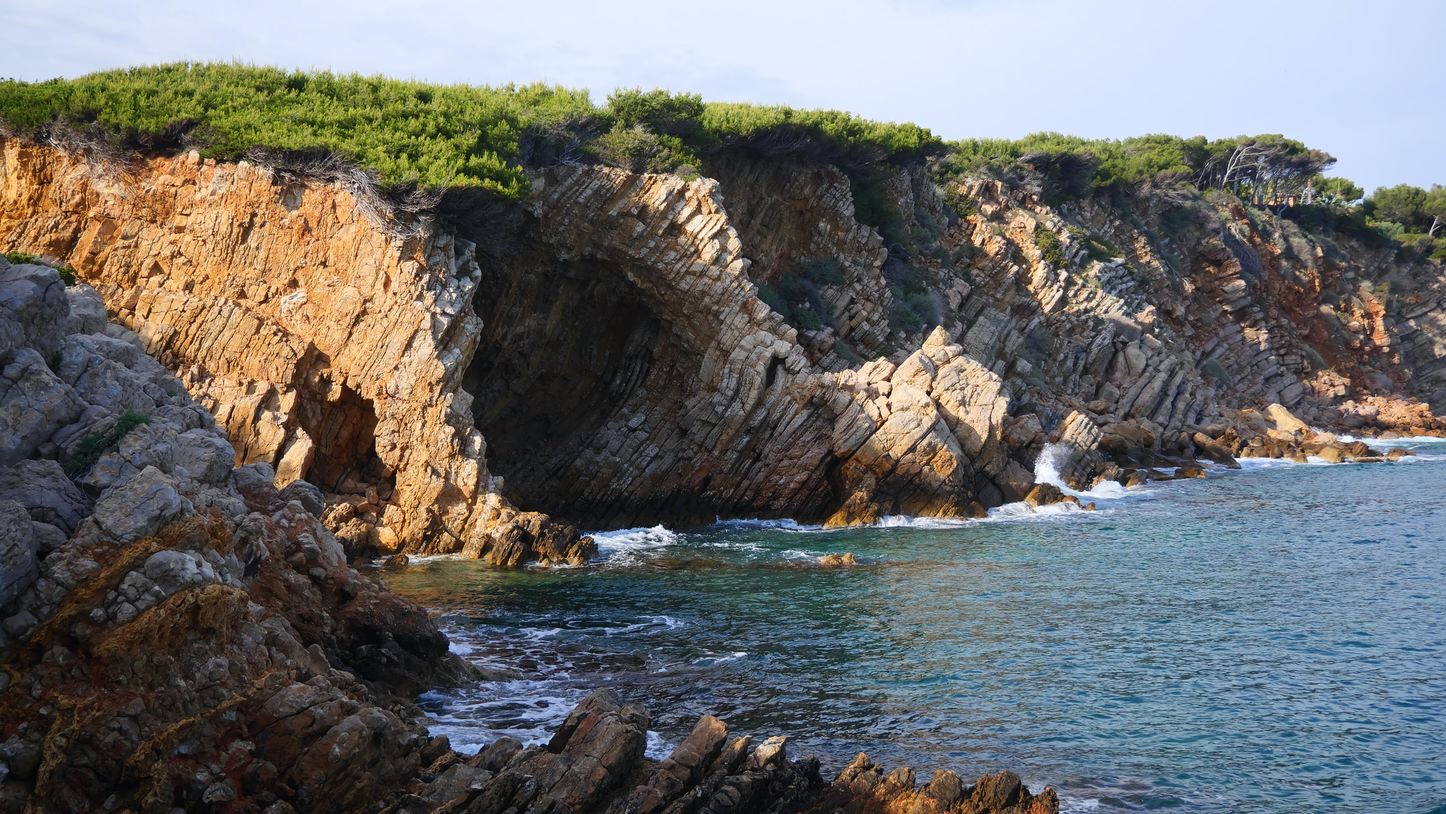
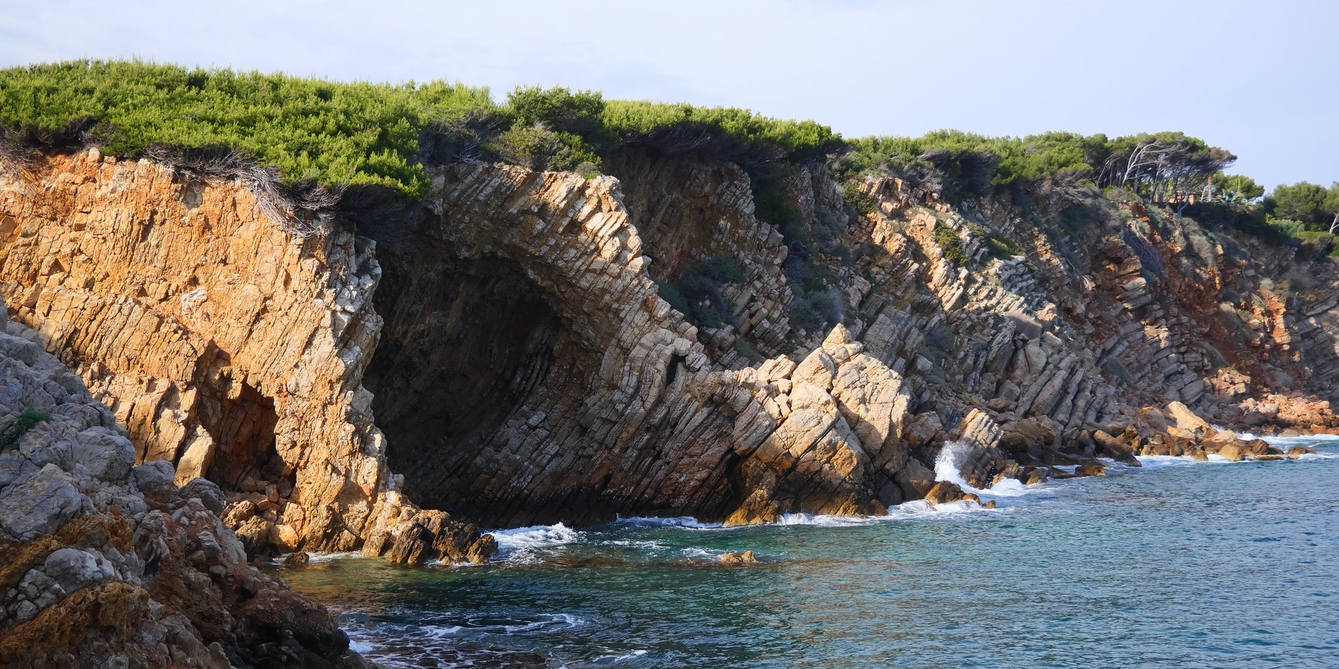
resized imagesevenly

diff --git a/switzerland.html b/switzerland.html
@@ -16,7 +16,7 @@
             <div class="country-nav"><a href="">Australia</a></div>
            
         </nav>
-        <div class="img-header"> <img src="/images/switzerland.jpeg" alt="Photo of Switzerland countryside"> </div>
+        <div class="img-header"> <img src="/images/switzerland.jpg" alt="Photo of Switzerland countryside"> </div>
         <h1 class="country-name">Switzerland</h1> 
     </header>
     <main>

diff --git a/index.html b/index.html
@@ -28,8 +28,8 @@
 
            
         </nav>
-        <div class="img-header"> <img src="/images/new_zealand.jpeg" alt=""> </div>
-        <h1 class="country-name">New Zealand</h1> 
+        <div class="img-header"> <img src="/images/blue_door.jpg" alt=""> </div>
+        </div><h1 class="country-name">New Zealand</h1> 
     </header>
     <main>
         <article class="country-content">

diff --git a/australia.html b/australia.html
@@ -16,7 +16,7 @@
             <div class="country-nav"><a href="">Australia</a></div>
            
         </nav>
-        <div class="img-header"> <img src="/images/syd.jpg" alt="sydney orchestra"> </div>
+        <div class="img-header"> <img src="/images/sydney.jpg" alt="sydney orchestra"> </div>
         <h1 class="country-name">Australia</h1> 
     </header>
     <main>

diff --git a/styles/main.css b/styles/main.css
@@ -26,8 +26,10 @@ a {
     width: 100%;
 }
 
+
 img {
     width: 100%;
+    object-fit: cover;
 }
 
 .country-name {
@@ -35,6 +37,7 @@ img {
     margin-bottom: 0;
     padding-bottom: 20px;
     color: #1d3557;
+    object-position: 1px;
 }
 
 .country-content {
